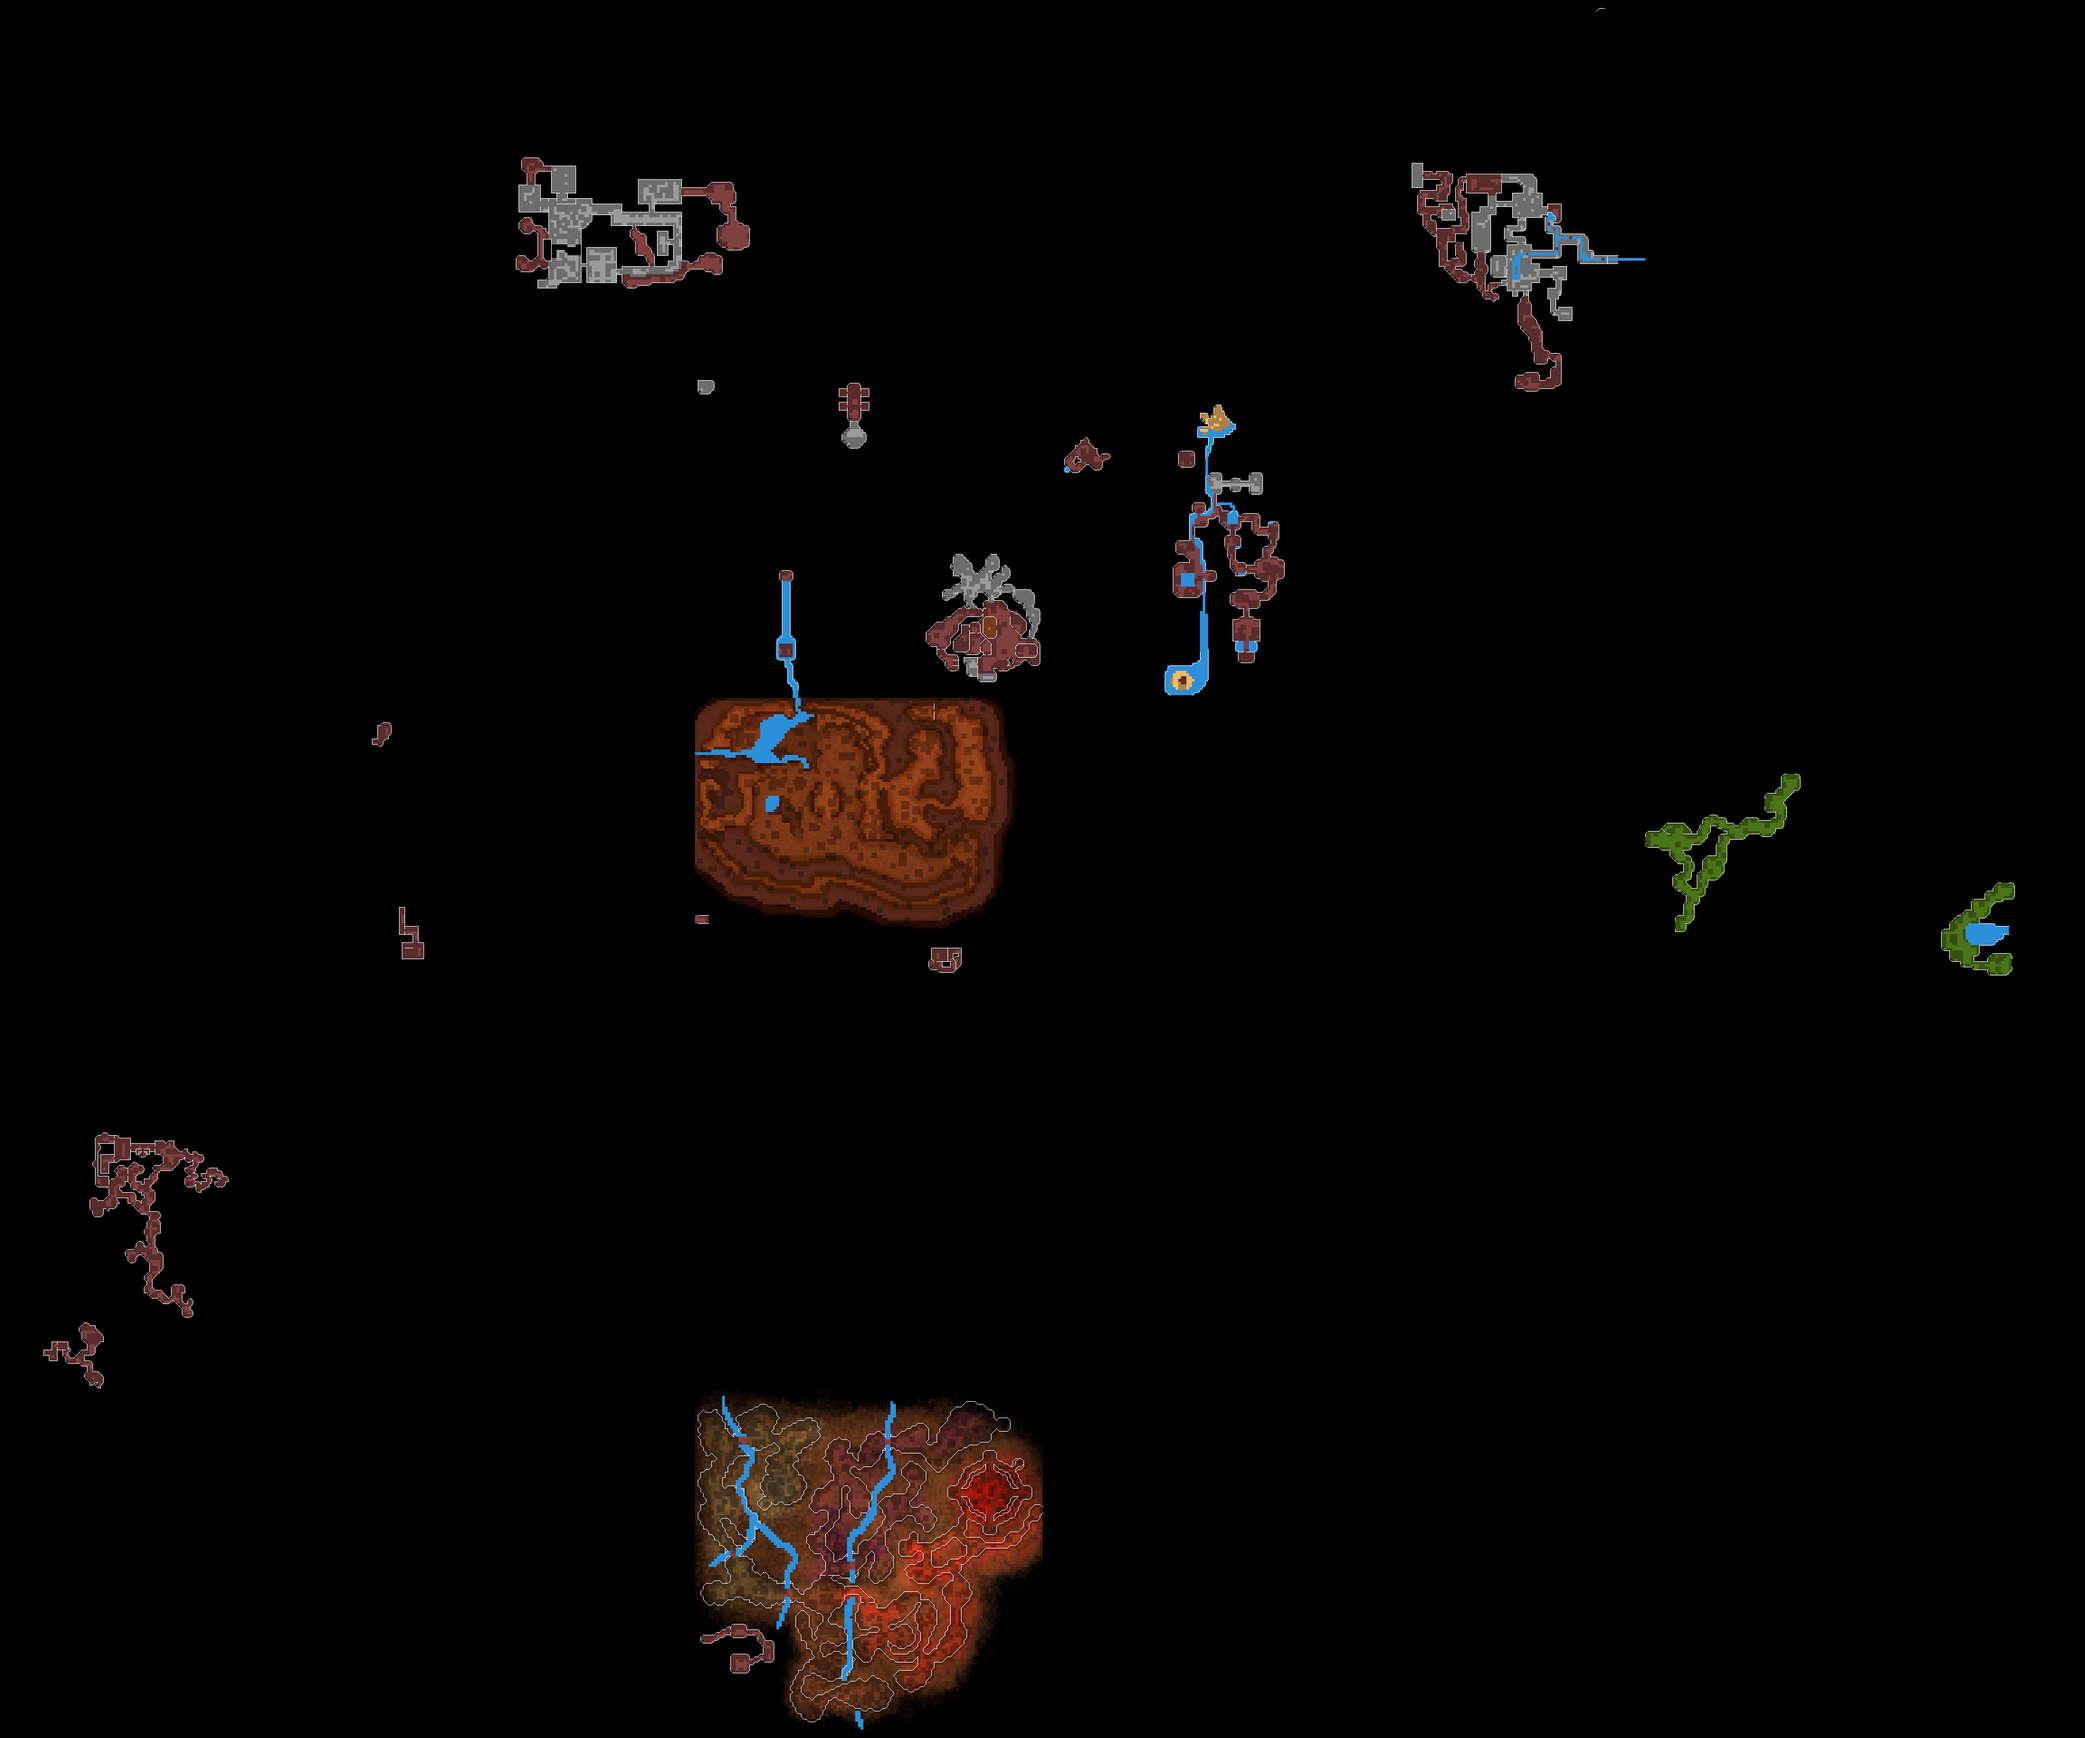
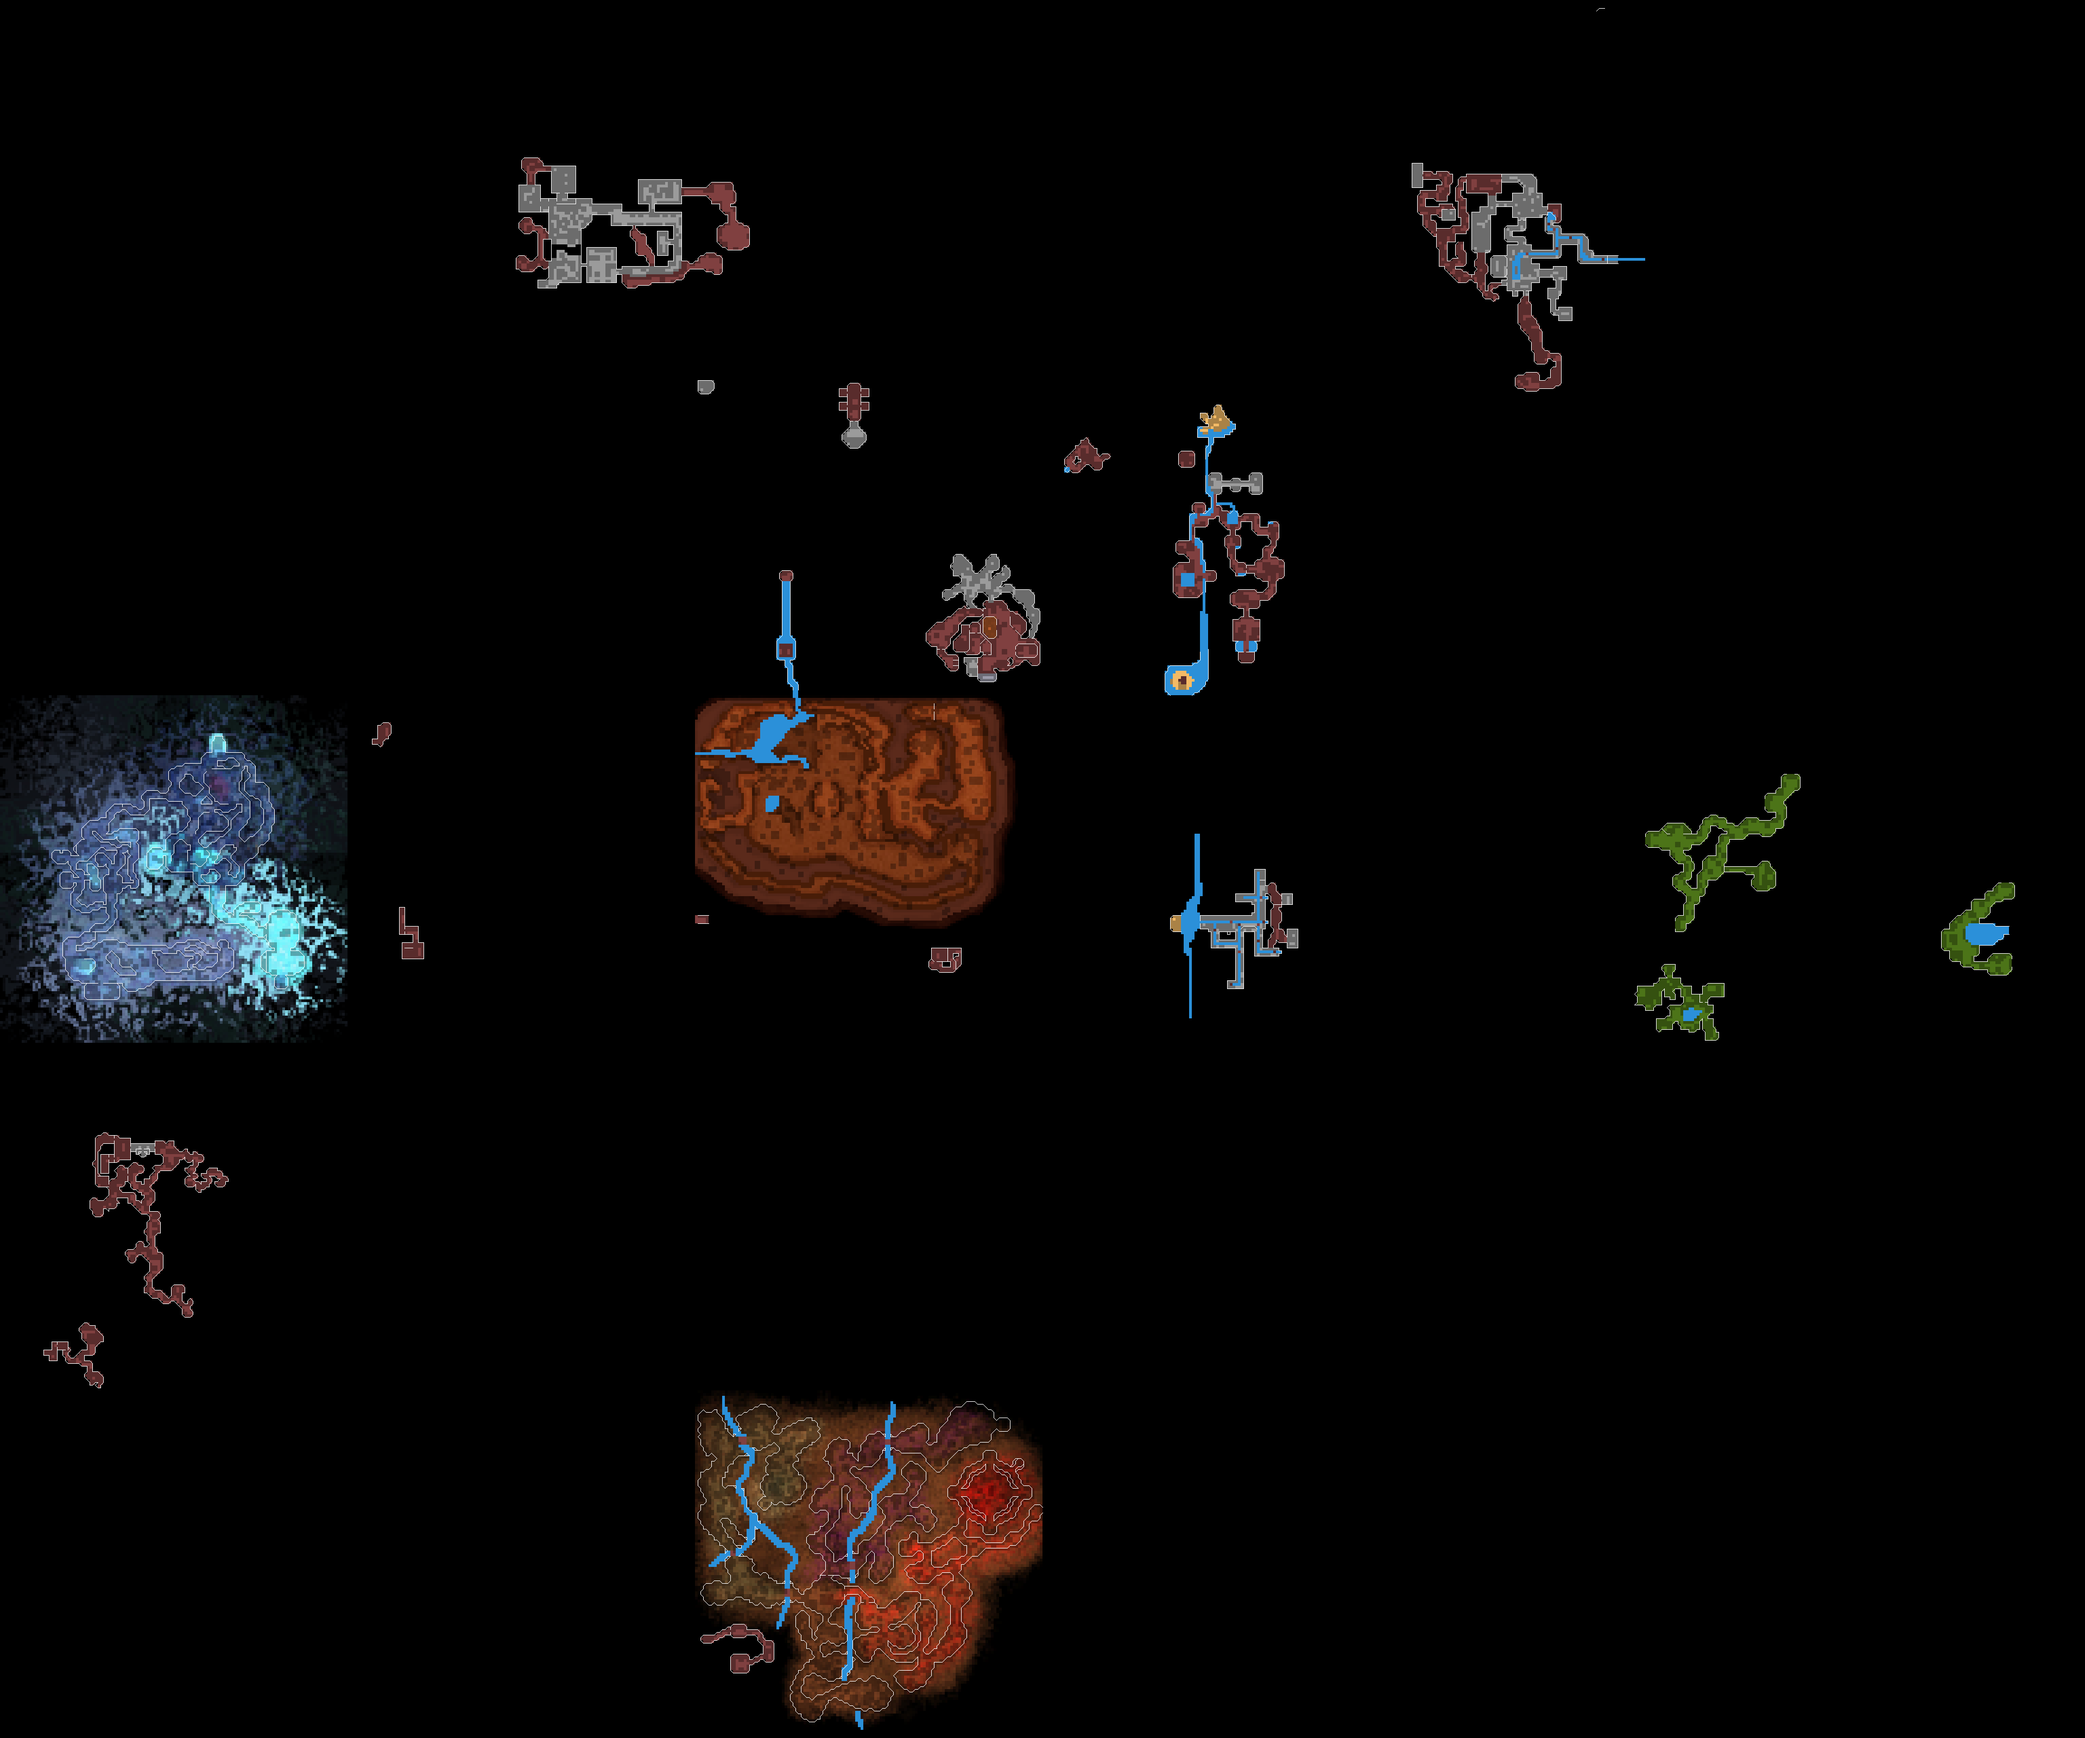
v112

Changed region(s): [[0.0, 0.375, 0.1875, 0.625], [0.5625, 0.5, 0.625, 0.5625], [0.7812, 0.5625, 0.8438, 0.5938]]

diff --git a/service/static/js/map.js b/service/static/js/map.js
@@ -53,7 +53,7 @@ window.onload = (event) => {
     const dimensions = {
         'world':   [ -2, -1, 3, 3 ],
         'world1':  [ -2, -1, 2, 2 ],
-        'world2':  [  0, -1, 2, 0 ],
+        'world2':  [ -1, -1, 2, 2 ],
         'fae':     [ -1,  0, 1, 1 ],
         'dungeon': [ -2, -1, 3, 3 ]
     };

diff --git a/service/static/js/test.js b/service/static/js/test.js
@@ -53,7 +53,7 @@ window.onload = (event) => {
     const dimensions = {
         'world':   [ -2, -1, 3, 3 ],
         'world1':  [ -2, -1, 2, 2 ],
-        'world2':  [  0, -1, 2, 0 ],
+        'world2':  [ -1, -1, 2, 2 ],
         'fae':     [ -1,  0, 1, 1 ],
         'dungeon': [ -2, -1, 3, 3 ]
     };

diff --git a/crawler/scrape.py b/crawler/scrape.py
@@ -16,7 +16,7 @@ import os
 
 
 CACHE_DIR = 'files'
-CACHE_VERSION = '0.108'
+CACHE_VERSION = '0.112'
 STATIC_ENDPOINT = f'https://genfanad-static.s3.us-east-2.amazonaws.com/versioned/{CACHE_VERSION}/data_client'
 IMAGES_DIR = 'img'
 HTML_DIR = 'html'
@@ -25,7 +25,7 @@ WSIZE = 128
 # TODO: why is calculated size 129?
 
 KNOWN_SEGMENTS = {
-    'world': [
+    'world': {
         (-1, 0),
         (-1, 1),
         (-1, 2),
@@ -42,11 +42,11 @@ KNOWN_SEGMENTS = {
         ( 3,-1),
         ( 3, 0),
         ( 3, 1),
-    ],
-    'world2': [
+    },
+    'world2': {
         (2, -1),
-    ],
-    'dungeon': [
+    },
+    'dungeon': {
         (-1, 1),
         (-2, 2),
         ( 0, 0),
@@ -54,15 +54,28 @@ KNOWN_SEGMENTS = {
         ( 0, 3),
         ( 1, 0),
         ( 3, 1),
-    ],
-    'fairy': [
+    },
+    'fairy': {
         (-1, 0),
         ( 0, 0),
         ( 0, 1),
         ( 1, 0),
         ( 1, 1),
-    ],
+    },
 }
+
+
+def update_known_segments():
+    regions = os.listdir(os.path.join(CACHE_DIR, CACHE_VERSION))
+    for region in regions:
+        if region not in KNOWN_SEGMENTS:
+            KNOWN_SEGMENTS[region] = set()
+        segments_dir = os.path.join(CACHE_DIR, CACHE_VERSION, region)
+        for filename in os.listdir(segments_dir):
+            if filename.endswith('.zip'):
+                coords = tuple(map(int, filename.split('.')[0].split('_')))
+                assert len(coords) == 2
+                KNOWN_SEGMENTS[region].add(coords)
 
 
 _invalid_icons = set()
@@ -182,8 +195,19 @@ def get_segment_data(
 def cmd_crawl(args):
     visited = set()
 
+    update_known_segments()
     todo = set(KNOWN_SEGMENTS.get(args.region, []))
     todo.add((0, 0))
+
+    if args.region in ('world1', 'dungeon'):
+        # dungeon and other world levels will overlap with
+        # the world, so preload all those segments
+        for segment in KNOWN_SEGMENTS['world']:
+            todo.add(segment)
+    elif args.region == 'world2':
+        # same with world1 and world2
+        for segment in KNOWN_SEGMENTS['world1']:
+            todo.add(segment)
 
     while len(todo):
         pos = todo.pop()
